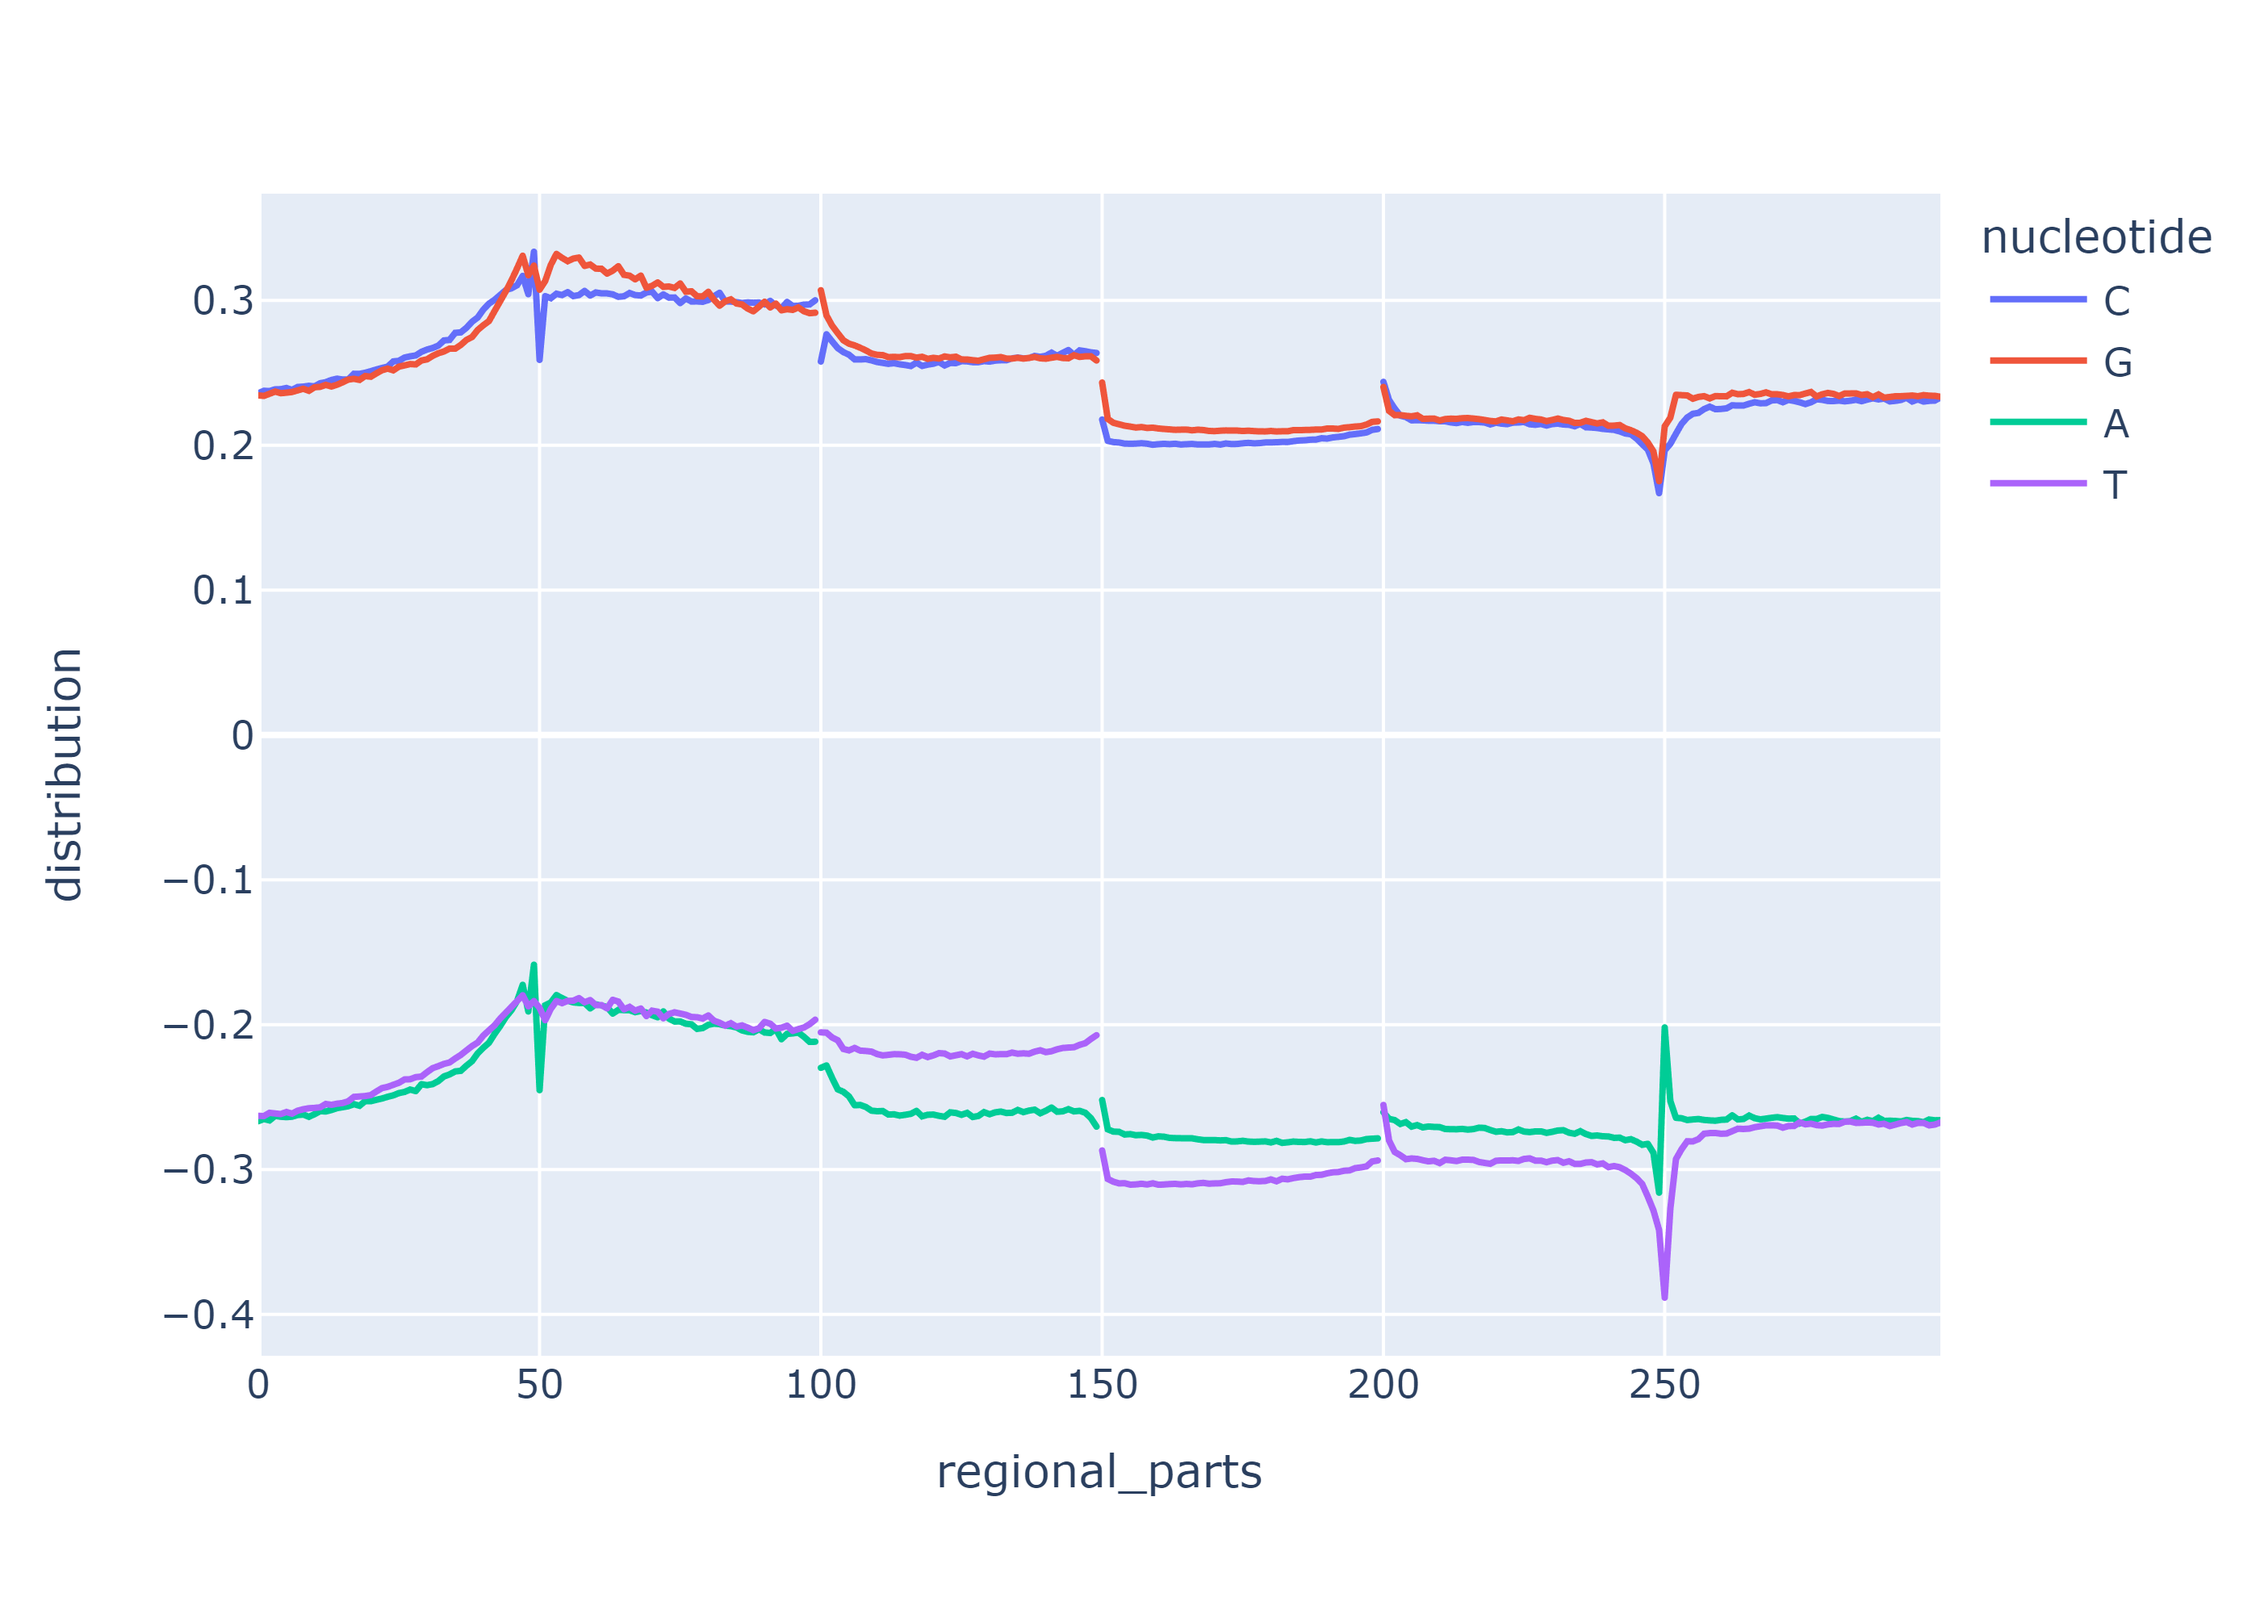
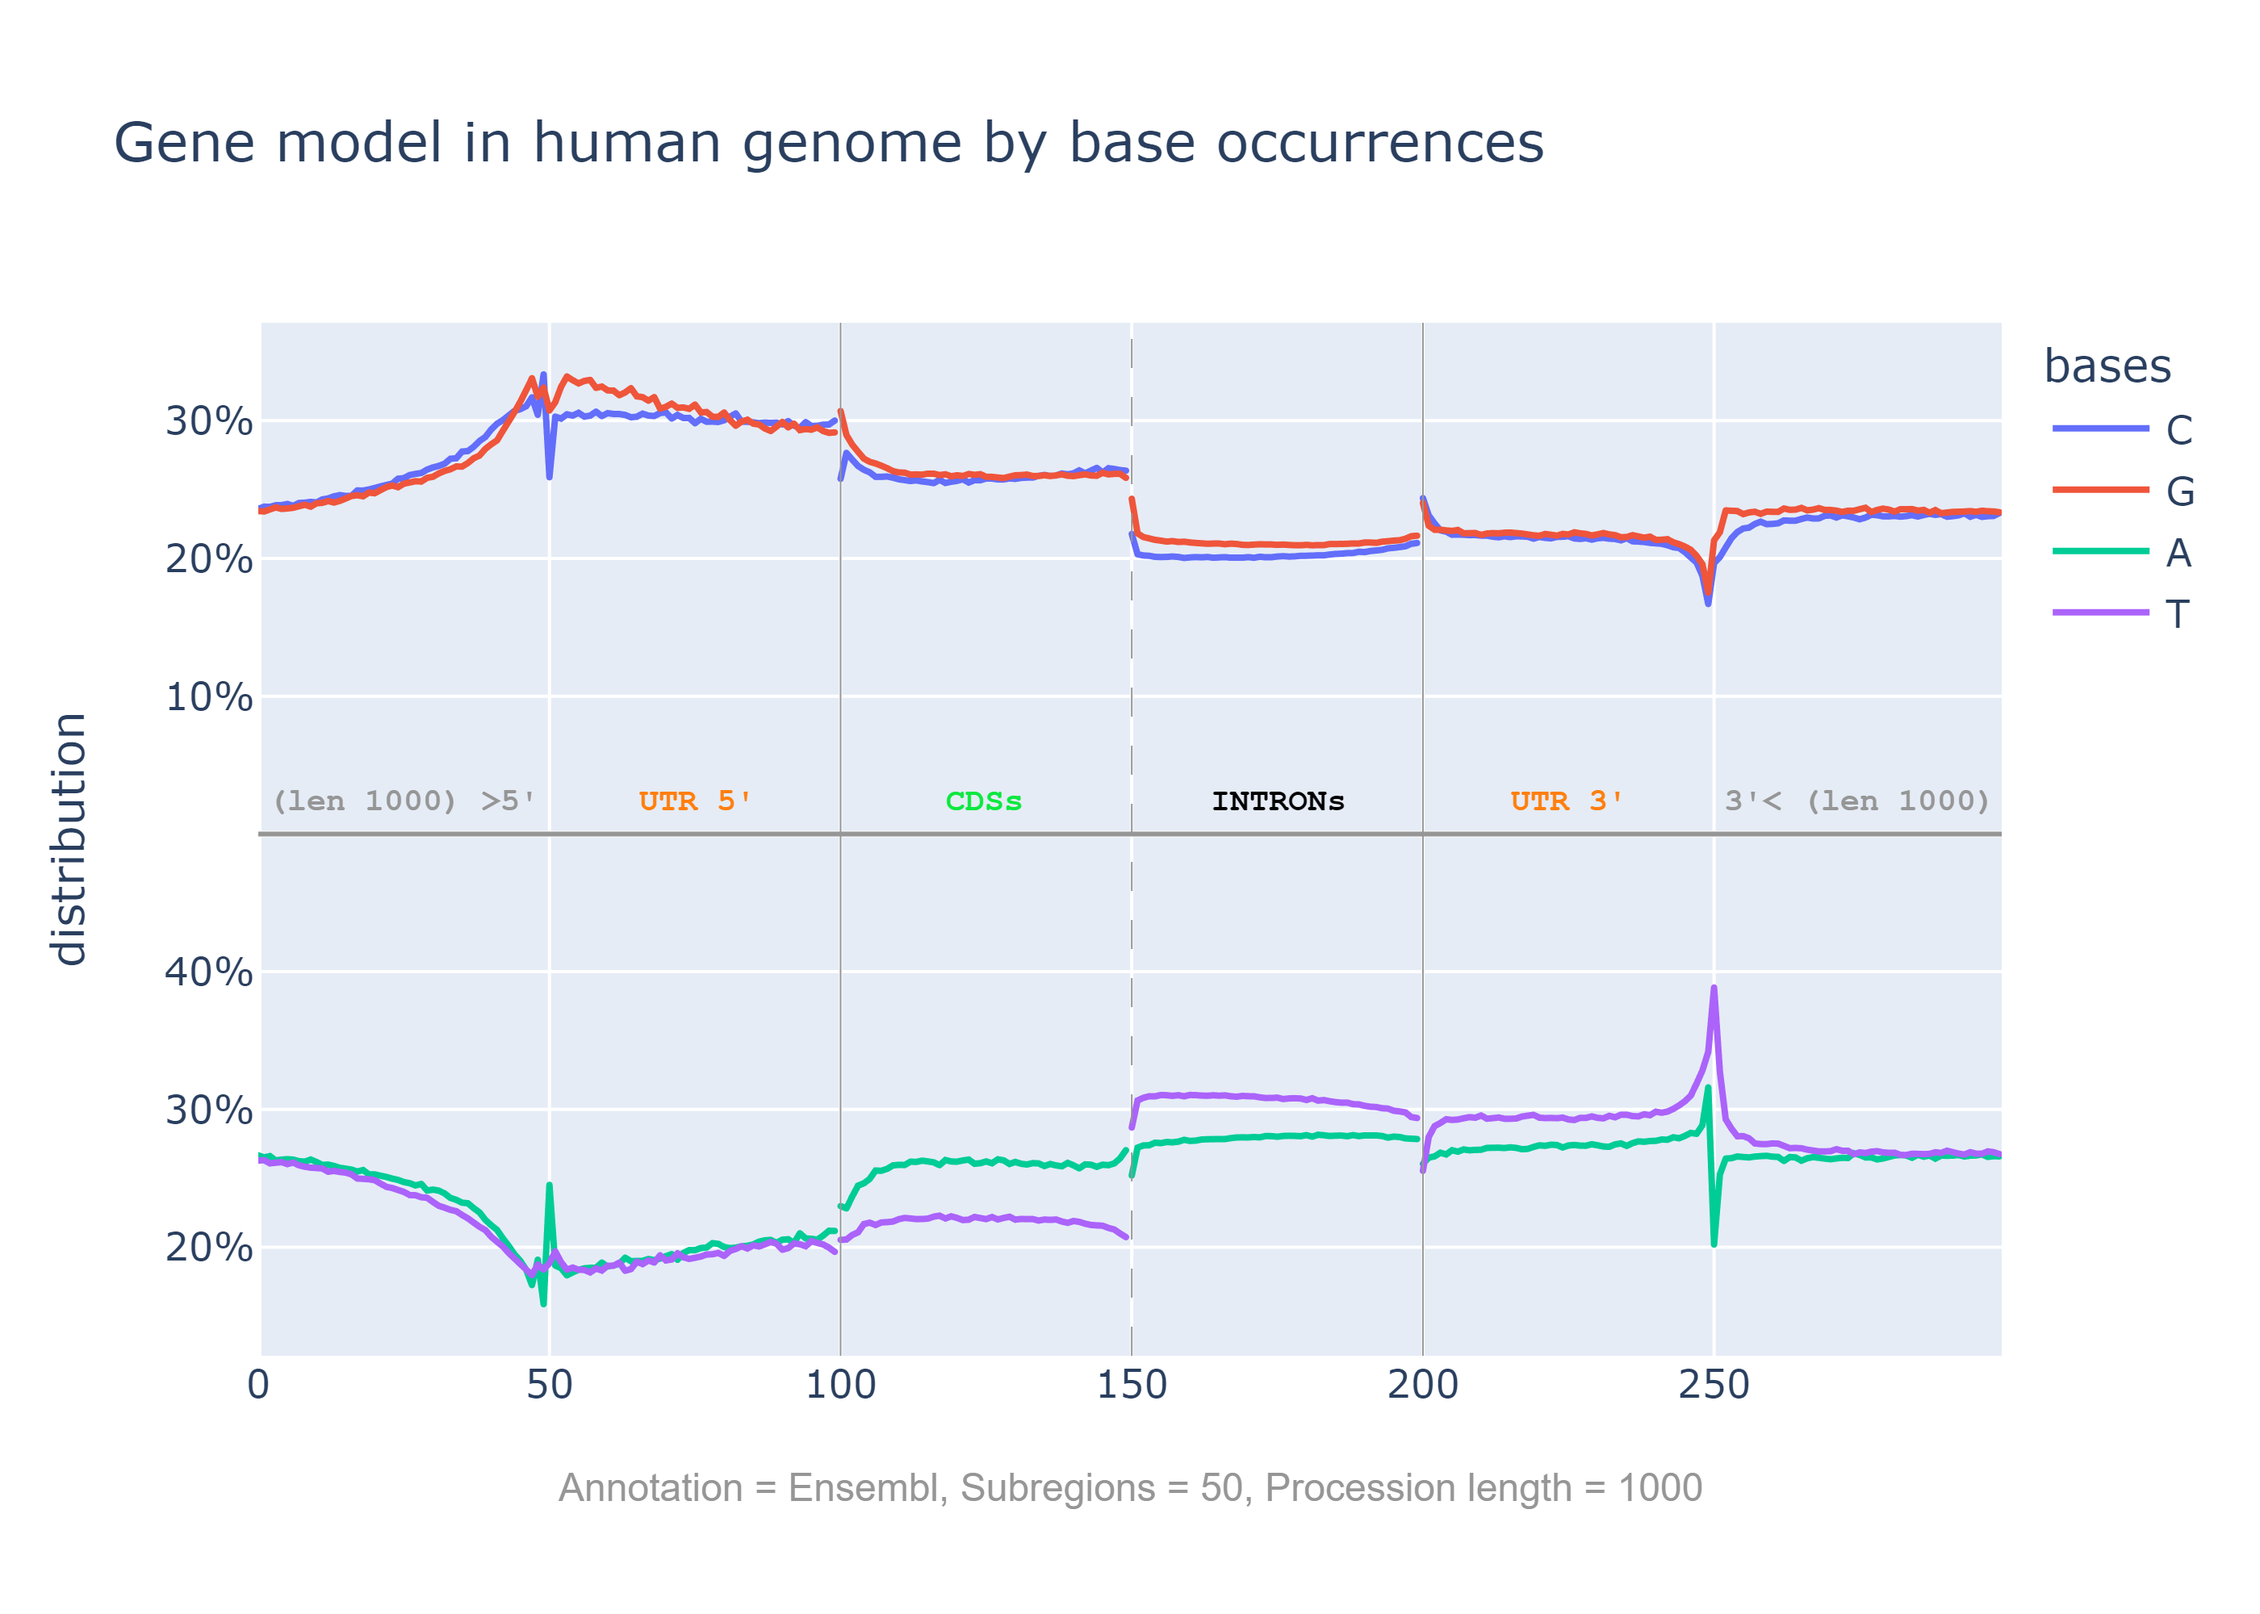
update markdown

diff --git a/base_occurrences.py b/base_occurrences.py
@@ -99,9 +99,9 @@ for region in range(0, 6):
 
         dist2 = total_occurrences[region][part][1] / total
 
-        dist3 = -total_occurrences[region][part][2] / total
+        dist3 = total_occurrences[region][part][2] / total - 0.5
 
-        dist4 = -total_occurrences[region][part][3] / total
+        dist4 = total_occurrences[region][part][3] / total - 0.5
 
         distribution.append(dist1)
         distribution.append(dist2)
@@ -125,7 +125,62 @@ df = pd.DataFrame(dict(
     lineind=lineind
 ))
 
-fig = px.line(df, x="regional_parts", y="distribution", line_group=lineind, color="nucleotide")
+# build graph
+fig = px.line(df, x="regional_parts", y="distribution", labels={
+    "regional_parts": "",
+    "distribution": "distribution",
+    'nucleotide': "bases"
+}, title='Gene model in human genome by base occurrences', line_group=lineind, color="nucleotide")
+
+fig.update_layout(
+    yaxis=dict(
+        tickmode='array',
+        tickvals=[-0.4, -0.3, -0.2, -0.1, 0.1, 0.2, 0.3, 0.4],
+        ticktext=['10%', '20%', '30%', '40%', '10%', "20%", '30%', '40%']
+    )
+)
+
+# bottom text
+fig.add_annotation(dict(xref='paper', yref='paper', x=0.5, y=-0.1, xanchor='center', yanchor='top',
+                        text='Annotation = ' + sys.argv[1] + ', Subregions = ' + sys.argv[2] +
+                             ', Procession length = ' + sys.argv[3],
+                        font=dict(family='Arial', size=12, color='rgb(150,150,150)'),
+                        showarrow=False))
+
+# region texts
+fig.add_annotation(x=k / 2, y=0, text="<b>(len " + str(procession_length) + ") >5'</b>", showarrow=False, yshift=10,
+                   font=dict(family="Courier New, monospace", size=10, color='rgb(150,150,150)'))
+
+fig.add_annotation(x=3 * k / 2, y=0, text="<b>UTR 5'</b>", showarrow=False, yshift=10,
+                   font=dict(family="Courier New, monospace", size=10, color="#ff7f0e"),
+                   # bordercolor="#c7c7c7", borderwidth=2, borderpad=4, bgcolor="#ff7f0e", opacity=0.8
+                   )
+
+fig.add_annotation(x=5 * k / 2, y=0, text="<b>CDSs</b>", showarrow=False, yshift=10,
+                   font=dict(family="Courier New, monospace", size=10, color="#0CE83F"),
+                   # bordercolor="#c7c7c7", borderwidth=2, borderpad=4, bgcolor="#0CE83F", opacity=0.8
+                   )
+
+fig.add_annotation(x=7 * k / 2, y=0, text="<b>INTRONs</b>", showarrow=False, yshift=10,
+                   font=dict(family="Courier New, monospace", size=10, color="#000000"),
+                   # bordercolor="#c7c7c7", borderwidth=2, borderpad=4, opacity=0.8
+                   )
+
+fig.add_annotation(x=9 * k / 2, y=0, text="<b>UTR 3'</b>", showarrow=False, yshift=10,
+                   font=dict(family="Courier New, monospace", size=10, color="#ff7f0e"),
+                   # bordercolor="#c7c7c7", borderwidth=2, borderpad=4, bgcolor="#ff7f0e", opacity=0.8
+                   )
+
+fig.add_annotation(x=11 * k / 2, y=0, text="<b>3'< (len " + str(procession_length) + ")</b>", showarrow=False,
+                   yshift=10,
+                   font=dict(family="Courier New, monospace", size=10, color='rgb(150,150,150)'))
+
+# lines
+fig.add_hline(y=0, line_width=1.5, line_color='rgb(150,150,150)')
+fig.add_vline(x=2 * k, line_width=0.75, line_color='rgb(150,150,150)')
+fig.add_vline(x=3 * k, line_width=0.75, line_dash="dash", line_color='rgb(150,150,150)')
+fig.add_vline(x=4 * k, line_width=0.75, line_color='rgb(150,150,150)')
+
 fig.write_image(
     "results/images/average gene (" + sys.argv[1] + ", k=" + sys.argv[2] + ", procc=" + sys.argv[3] + ").png",
     scale=4.0)

diff --git a/genome_lib_tools.py b/genome_lib_tools.py
@@ -409,16 +409,9 @@ def get_fragments_on_gene(chr_id, gene_feature: Feature, force_sorted) -> list[F
         return []
 
     fragments = __find_transcript_fragments(chr_id, mRNA_transcript)
-    if force_sorted == False:
+    if not force_sorted:
         return fragments
-
-    arr = []
-    for frag in fragments:
-        arr.append((frag, frag.start))
-    arr = sorted(arr, key=lambda tup: tup[1])
-    fragments = []
-    for item in arr:
-        fragments.append(item[0])
+    fragments.sort(key=lambda x: x.start)
     return fragments
 
 

diff --git a/overlapping_fragments.py b/overlapping_fragments.py
@@ -17,7 +17,7 @@
 # Example:
 #   python overlapping_fragments.py NCBI CDS diff_stranded both_framed print_gene_pairs_with_descriptions
 #   Finds all overlapping genes by CDS fragments, which are on different strands
-#   and which have same ORF or different ORF (or both)
+#   and which have same ORF or different ORF
 #
 # Output:
 #   creates .txt file in ./results folder

diff --git a/README.md b/README.md
@@ -95,8 +95,11 @@ Params (possible) to run:
 Example:
   python overlapping_fragments.py NCBI CDS diff_stranded both_framed print_gene_pairs_with_descriptions
   Finds all overlapping genes by CDS fragments, which are on different strands
-  and which have same ORF or different ORF (or both)
+  and which have same ORF or different ORF
 
 Output:
   creates .txt file in ./results folder
 ```
+##### _Example Outputs:_
+ [overlapped genes (+descriptions) - CDS [diff_stranded, both_framed] (Ensembl).txt](/results/overlappedgenes%20(+descriptions)%20-%20CDS%20[diff_stranded,%20both_framed]%20(Ensembl).txt)
+ [overlapped genes (+descriptions) - CDS [diff_stranded, both_framed] (NCBI)](/results/overlappedgenes%20(+descriptions)%20-%20CDS%20[diff_stranded,%20both_framed]%20(NCBI).txt) 
